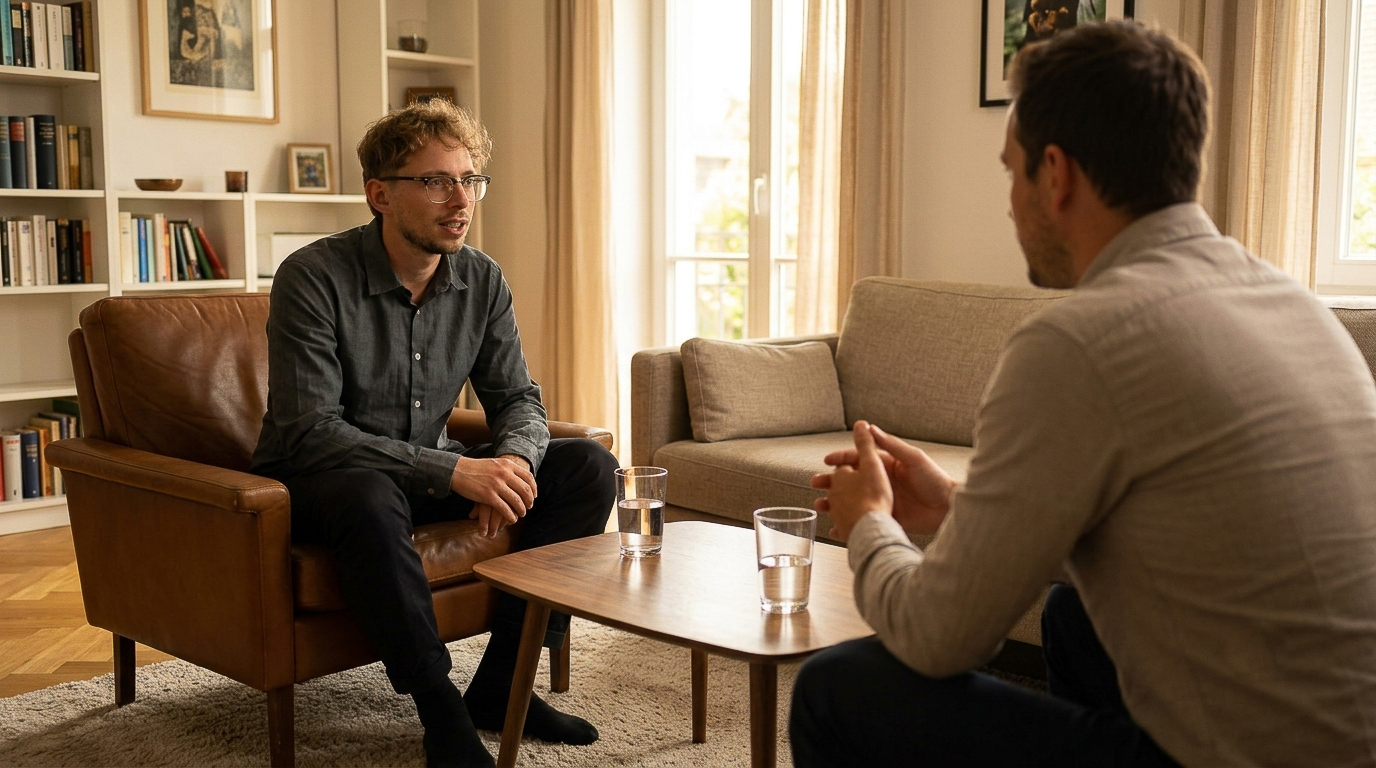
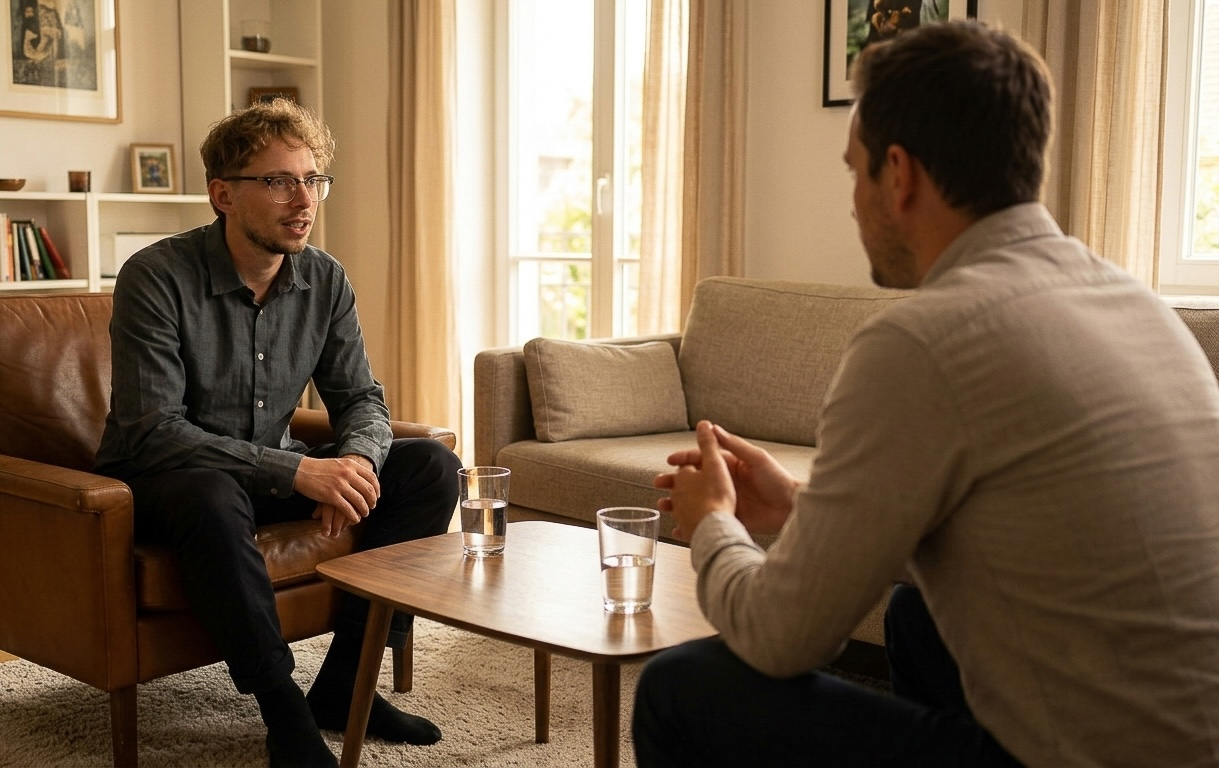
Speed Insights und Design

diff --git a/src/index.css b/src/index.css
@@ -1,199 +1,146 @@
 @import url('https://fonts.googleapis.com/css2?family=Cormorant+Garamond:ital,wght@0,400;0,500;0,600;1,400;1,500&family=Inter:wght@300;400;500;600&display=swap');
 
+/* =====================================================
+   TAILWIND
+===================================================== */
 @tailwind base;
 @tailwind components;
 @tailwind utilities;
 
-@layer base {
-  :root {
-    --background: 35 30% 96%;
-    --foreground: 30 15% 20%;
-    --card: 35 25% 98%;
-    --card-foreground: 30 15% 20%;
-    --popover: 35 25% 98%;
-    --popover-foreground: 30 15% 20%;
-    --primary: 18 45% 45%;
-    --primary-foreground: 35 30% 96%;
-    --secondary: 35 20% 90%;
-    --secondary-foreground: 30 15% 20%;
-    --muted: 35 15% 88%;
-    --muted-foreground: 30 10% 45%;
-    --accent: 140 15% 40%;
-    --accent-foreground: 35 30% 96%;
-    --destructive: 0 84.2% 60.2%;
-    --destructive-foreground: 0 0% 98%;
-    --border: 30 15% 85%;
-    --input: 30 15% 85%;
-    --ring: 18 45% 45%;
-    --radius: 0.5rem;
-    
-    --color-terracotta: #B5725A;
-    --color-sage: #7A8B6E;
-    --color-cream: #F5F0E8;
-    --color-warm-beige: #E8DDD0;
-    --color-deep-brown: #3D3229;
-    --color-soft-taupe: #A89B8C;
-  }
-}
+/* =====================================================
+   DESIGN SYSTEM (CLEAN + CONSISTENT)
+===================================================== */
 
 @layer base {
-  * {
-    @apply border-border;
+  :root {
+    /* Colors */
+    --color-background: #F5F0E8;
+    --color-surface: #FFFFFF;
+    --color-text: #3D3229;
+    --color-muted: rgba(61, 50, 41, 0.6);
+
+    --color-primary: #B5725A;
+    --color-secondary: #7A8B6E;
+
+    --color-border: rgba(61, 50, 41, 0.12);
+
+    --color-accent-soft: #E8DDD0;
+
+    /* Radius */
+    --radius: 0.75rem;
   }
-  
+
   html {
     scroll-behavior: smooth;
   }
-  
+
   body {
-    @apply bg-background text-foreground antialiased;
+    @apply antialiased;
+    background-color: var(--color-background);
+    color: var(--color-text);
     font-family: 'Inter', sans-serif;
   }
-  
+
   h1, h2, h3, h4, h5, h6 {
     font-family: 'Cormorant Garamond', serif;
     font-weight: 500;
+    line-height: 1.2;
+    color: var(--color-text);
+  }
+
+  p {
+    line-height: 1.6;
+  }
+
+  * {
+    border-color: var(--color-border);
   }
 }
+
+/* =====================================================
+   TYPOGRAPHY HELPERS
+===================================================== */
 
 @layer utilities {
   .font-serif {
     font-family: 'Cormorant Garamond', serif;
   }
-  
+
   .font-sans {
     font-family: 'Inter', sans-serif;
   }
-  
-  .text-terracotta {
-    color: var(--color-terracotta);
+
+  .text-primary {
+    color: var(--color-primary);
   }
-  
-  .text-sage {
-    color: var(--color-sage);
+
+  .text-muted {
+    color: var(--color-muted);
   }
-  
-  .bg-terracotta {
-    background-color: var(--color-terracotta);
+
+  .bg-primary {
+    background-color: var(--color-primary);
   }
-  
-  .bg-sage {
-    background-color: var(--color-sage);
+
+  .bg-surface {
+    background-color: var(--color-surface);
   }
-  
-  .bg-cream {
-    background-color: var(--color-cream);
+
+  .bg-soft {
+    background-color: var(--color-accent-soft);
   }
-  
-  .bg-warm-beige {
-    background-color: var(--color-warm-beige);
-  }
-  
-  .border-terracotta {
-    border-color: var(--color-terracotta);
-  }
-  
-  .border-sage {
-    border-color: var(--color-sage);
+
+  .border-soft {
+    border-color: var(--color-border);
   }
 }
 
-/* Custom animations */
-@keyframes fadeInUp {
-  from {
-    opacity: 0;
-    transform: translateY(30px);
-  }
-  to {
-    opacity: 1;
-    transform: translateY(0);
-  }
-}
+/* =====================================================
+   ANIMATIONS (MINIMAL & SUBTLE)
+===================================================== */
 
 @keyframes fadeIn {
   from {
     opacity: 0;
+    transform: translateY(12px);
   }
   to {
     opacity: 1;
-  }
-}
-
-@keyframes slideInLeft {
-  from {
-    opacity: 0;
-    transform: translateX(-50px);
-  }
-  to {
-    opacity: 1;
-    transform: translateX(0);
-  }
-}
-
-@keyframes slideInRight {
-  from {
-    opacity: 0;
-    transform: translateX(50px);
-  }
-  to {
-    opacity: 1;
-    transform: translateX(0);
-  }
-}
-
-@keyframes gentleFloat {
-  0%, 100% {
     transform: translateY(0);
   }
-  50% {
-    transform: translateY(-10px);
-  }
 }
 
-.animate-fade-in-up {
-  animation: fadeInUp 0.8s ease-out forwards;
+@keyframes fadeInSoft {
+  from {
+    opacity: 0;
+  }
+  to {
+    opacity: 1;
+  }
 }
 
 .animate-fade-in {
-  animation: fadeIn 0.6s ease-out forwards;
+  animation: fadeIn 0.7s ease-out both;
 }
 
-.animate-slide-in-left {
-  animation: slideInLeft 0.8s ease-out forwards;
+.animate-fade-in-soft {
+  animation: fadeInSoft 0.9s ease-out both;
 }
 
-.animate-slide-in-right {
-  animation: slideInRight 0.8s ease-out forwards;
-}
+/* =====================================================
+   HOVER EFFECTS (SUBTLE)
+===================================================== */
 
-.animate-gentle-float {
-  animation: gentleFloat 4s ease-in-out infinite;
-}
-
-/* Stagger delays */
-.delay-100 { animation-delay: 0.1s; }
-.delay-200 { animation-delay: 0.2s; }
-.delay-300 { animation-delay: 0.3s; }
-.delay-400 { animation-delay: 0.4s; }
-.delay-500 { animation-delay: 0.5s; }
-.delay-600 { animation-delay: 0.6s; }
-
-/* Initial state for animations */
-.opacity-0-initial {
-  opacity: 0;
-}
-
-/* Hover effects */
 .hover-lift {
-  transition: transform 0.3s ease, box-shadow 0.3s ease;
+  transition: transform 0.25s ease, box-shadow 0.25s ease;
 }
 
 .hover-lift:hover {
-  transform: translateY(-5px);
-  box-shadow: 0 10px 30px rgba(0, 0, 0, 0.1);
+  transform: translateY(-3px);
+  box-shadow: 0 10px 25px rgba(0, 0, 0, 0.06);
 }
 
-/* Image hover zoom */
+/* Image zoom */
 .img-zoom-container {
   overflow: hidden;
 }
@@ -203,29 +150,35 @@
 }
 
 .img-zoom-container:hover img {
-  transform: scale(1.05);
+  transform: scale(1.03);
 }
 
-/* Custom scrollbar */
+/* =====================================================
+   SCROLLBAR (MINIMAL)
+===================================================== */
+
 ::-webkit-scrollbar {
-  width: 8px;
+  width: 6px;
 }
 
 ::-webkit-scrollbar-track {
-  background: var(--color-cream);
+  background: var(--color-background);
 }
 
 ::-webkit-scrollbar-thumb {
-  background: var(--color-soft-taupe);
-  border-radius: 4px;
+  background: rgba(61, 50, 41, 0.25);
+  border-radius: 10px;
 }
 
 ::-webkit-scrollbar-thumb:hover {
-  background: var(--color-terracotta);
+  background: var(--color-primary);
 }
 
-/* Selection color */
+/* =====================================================
+   SELECTION
+===================================================== */
+
 ::selection {
-  background-color: var(--color-terracotta);
+  background-color: var(--color-primary);
   color: white;
 }

diff --git a/src/App.tsx b/src/App.tsx
@@ -1,6 +1,8 @@
 import { BrowserRouter, Routes, Route } from 'react-router-dom';
 import { LanguageProvider } from './context/LanguageContext';
+
 import { Analytics } from '@vercel/analytics/react';
+import { SpeedInsights } from '@vercel/speed-insights/react';
 
 import { MainLayout } from './layouts/MainLayout';
 
@@ -11,7 +13,7 @@ import { Philosophy } from './sections/Philosophy';
 import { Testimonials } from './sections/Testimonials';
 import { Contact } from './sections/Contact';
 
-import { BlogIndex } from "./pages/blog/BlogIndex";
+import { BlogIndex } from './pages/blog/BlogIndex';
 import { PsychologischeFlexibilitaet } from './pages/blog/PsychologischeFlexibilitaet';
 
 function HomePage() {
@@ -67,6 +69,7 @@ function App() {
           </Routes>
         </BrowserRouter>
         <Analytics />
+        <SpeedInsights />
       </div>
     </LanguageProvider>
   );